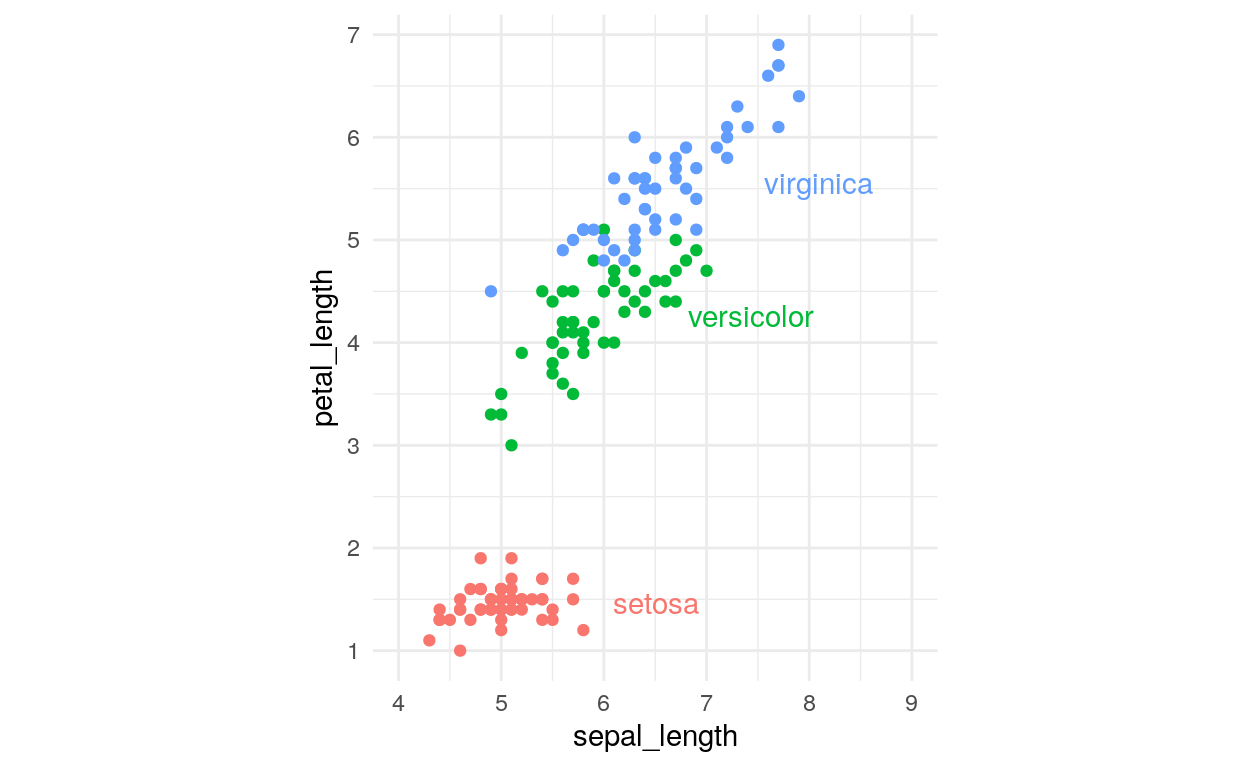
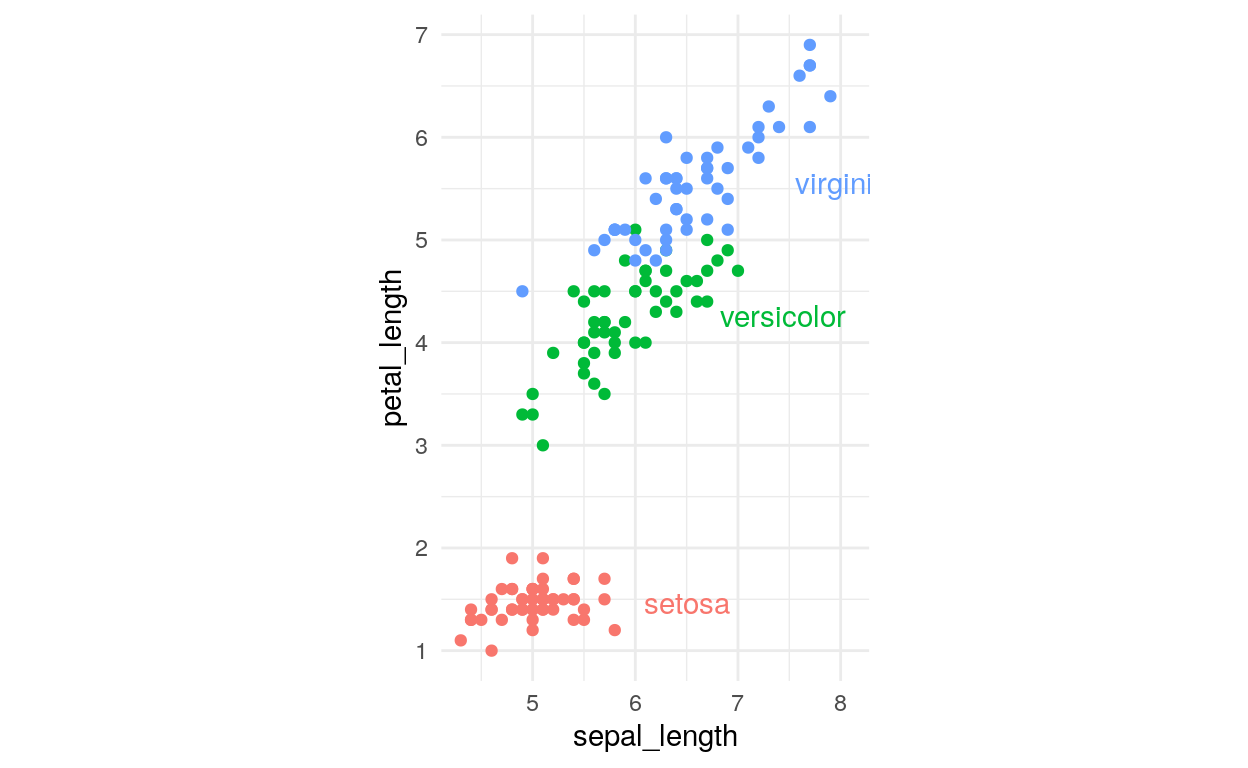
remove code duplication

diff --git a/docs/01strip.html b/docs/01strip.html
@@ -1304,7 +1304,7 @@
 
 <div class="d-article">
 <h1 id="data">Data</h1>
-<p>Just renaming, to fit my personal preferences.</p>
+<p>Just renaming variables, to fit my personal preferences.</p>
 <div class="layout-chunk" data-layout="l-body">
 <pre class="r"><code>
 data(iris)
@@ -1321,41 +1321,39 @@ ggplot(iris, aes(sepal_length, petal_length)) + geom_point()</code></pre>
 <p>Clearly we should code the species.</p>
 <div class="layout-chunk" data-layout="l-body">
 <pre class="r"><code>
-ggplot(iris, aes(sepal_length, petal_length, color = species)) +
+p &lt;- ggplot(iris, aes(sepal_length, petal_length, color = species)) +
   geom_point() +
-  NULL</code></pre>
+  NULL
+plot(p)</code></pre>
 <p><img src="01strip_files/figure-html5/unnamed-chunk-3-1.png" width="624" /></p>
 </div>
 <p>I just cannot stand the standard grey backround.</p>
 <div class="layout-chunk" data-layout="l-body">
 <pre class="r"><code>
-ggplot(iris, aes(sepal_length, petal_length, color = species)) +
-  geom_point() +
+p &lt;- p +
   theme_minimal() +
-  NULL</code></pre>
+  NULL
+plot(p)</code></pre>
 <p><img src="01strip_files/figure-html5/unnamed-chunk-4-1.png" width="624" /></p>
 </div>
 <p>Both axes are on the same scale, we could reflect that.</p>
 <div class="layout-chunk" data-layout="l-body">
 <pre class="r"><code>
-ggplot(iris, aes(sepal_length, petal_length, color = species)) +
-  geom_point() +
-  theme_minimal() +
+p &lt;- p + 
   coord_fixed() +
-  NULL</code></pre>
+  NULL
+plot(p)</code></pre>
 <p><img src="01strip_files/figure-html5/unnamed-chunk-5-1.png" width="624" /></p>
 </div>
 <p>The breaks are not symetrical.</p>
 <div class="layout-chunk" data-layout="l-body">
 <pre class="r"><code>
 round_breaks &lt;- function(lim)ceiling(seq(lim[[1]], lim[[2]], by = 1))
-ggplot(iris, aes(sepal_length, petal_length, color = species)) +
-  geom_point() +
-  theme_minimal() +
-  coord_fixed() +
+p &lt;- p +
   scale_x_continuous(breaks = round_breaks) +
   scale_y_continuous(breaks = round_breaks) +
-  NULL</code></pre>
+  NULL
+plot(p)</code></pre>
 <p><img src="01strip_files/figure-html5/unnamed-chunk-6-1.png" width="624" /></p>
 </div>
 <p>The legend does need a lot of space.</p>
@@ -1366,12 +1364,7 @@ iris_cluster &lt;- iris %&gt;%
   summarise(sepal_length = mean(sepal_length),
             petal_length = mean(petal_length))
 
-ggplot(iris, aes(sepal_length, petal_length, color = species)) +
-  geom_point() +
-  theme_minimal() +
-  coord_fixed() +
-  scale_x_continuous(breaks = round_breaks, limits = c(4, 9)) +
-  scale_y_continuous(breaks = round_breaks) +
+p &lt;- p + 
   geom_text(data = iris_cluster,
             mapping = aes(sepal_length,
                           petal_length,
@@ -1380,81 +1373,43 @@ ggplot(iris, aes(sepal_length, petal_length, color = species)) +
             nudge_x = 1.5,
             inherit.aes = FALSE) +
   theme(legend.position = &quot;none&quot;) +
-  NULL</code></pre>
+  NULL
+plot(p)</code></pre>
 <p><img src="01strip_files/figure-html5/unnamed-chunk-7-1.png" width="624" /></p>
 </div>
 <p>Adding a marginal distribution comes essentially for free.</p>
 <div class="layout-chunk" data-layout="l-body">
 <pre class="r"><code>
-ggplot(iris, aes(sepal_length, petal_length, color = species)) +
-  geom_point() +
-  theme_minimal() +
-  coord_fixed() +
-  scale_x_continuous(breaks = round_breaks, limits = c(4, 9)) +
-  scale_y_continuous(breaks = round_breaks) +
-  geom_text(data = iris_cluster,
-            mapping = aes(sepal_length,
-                          petal_length,
-                          label = species,
-                          color = species),
-            nudge_x = 1.5,
-            inherit.aes = FALSE) +
-  theme(legend.position = &quot;none&quot;) +
-  xlab(&quot;Sepal lenght (cm)&quot;) + 
-  ylab(&quot;Petal lenght (cm)&quot;) + 
+p &lt;- p +
   geom_jitter(aes(x = 4, y = petal_length), width = 0, shape = 96, size = 4, alpha = .5) +
   geom_jitter(aes(x = sepal_length, y = 0), height = 0, shape = 96, size = 4, alpha = .5) +
-  NULL</code></pre>
+  NULL
+plot(p)</code></pre>
 <p><img src="01strip_files/figure-html5/unnamed-chunk-8-1.png" width="624" /></p>
 </div>
 <p>We gain a lot of space by flipping the plot.</p>
 <div class="layout-chunk" data-layout="l-body">
 <pre class="r"><code>
-ggplot(iris, aes(sepal_length, petal_length, color = species)) +
-  geom_point() +
-  theme_minimal() +
-  coord_fixed() +
-  scale_x_continuous(breaks = round_breaks, limits = c(4, 9)) +
-  scale_y_continuous(breaks = round_breaks) +
-  geom_text(data = iris_cluster,
-            mapping = aes(sepal_length,
-                          petal_length,
-                          label = species,
-                          color = species),
-            nudge_x = 1.5,
-            inherit.aes = FALSE) +
-  theme(legend.position = &quot;none&quot;) +
-  xlab(&quot;Sepal lenght (cm)&quot;) + 
-  ylab(&quot;Petal lenght (cm)&quot;) + 
-  geom_jitter(aes(x = 4, y = petal_length), width = 0, shape = 96, size = 4, alpha = .5) +
-  geom_jitter(aes(x = sepal_length, y = 0), height = 0, shape = 96, size = 4, alpha = .5) +
+p &lt;- p +
   coord_flip() +
-  NULL</code></pre>
+  NULL
+plot(p)</code></pre>
 <p><img src="01strip_files/figure-html5/unnamed-chunk-9-1.png" width="624" /></p>
+</div>
+<p>Ok, proper labels are neccesary.</p>
+<div class="layout-chunk" data-layout="l-body">
+<pre class="r"><code>
+p &lt;- p +
+  xlab(&quot;Sepal lenght (cm)&quot;) + 
+  ylab(&quot;Petal lenght (cm)&quot;) +
+  NULL
+plot(p)</code></pre>
+<p><img src="01strip_files/figure-html5/unnamed-chunk-10-1.png" width="624" /></p>
 </div>
 <p>Personally I all ready like this graph but one may replace the backround grid by axis ticks.</p>
 <div class="layout-chunk" data-layout="l-body">
 <pre class="r"><code>
-ggplot(iris, aes(sepal_length, petal_length, color = species)) +
-  geom_point() +
-  theme_minimal() +
-  coord_fixed() +
-  scale_x_continuous(breaks = round_breaks, limits = c(4, 9)) +
-  scale_y_continuous(breaks = round_breaks) +
-  geom_text(data = iris_cluster,
-            mapping = aes(sepal_length,
-                          petal_length,
-                          label = species,
-                          color = species),
-            nudge_x = 1.5,
-            inherit.aes = FALSE) +
-  theme(legend.position = &quot;none&quot;) +
-  xlab(&quot;Sepal lenght (cm)&quot;) + 
-  ylab(&quot;Petal lenght (cm)&quot;) + 
-  geom_jitter(aes(x = 4, y = petal_length), width = 0, shape = 96, size = 4, alpha = .5) +
-  geom_jitter(aes(x = sepal_length, y = 0),
-              height = 0, shape = 96, size = 4, alpha = .5) +
-  coord_flip() +
+p &lt;- p + 
   theme_void() +
   theme(axis.ticks = element_line(),
         axis.ticks.length = unit(0.05, &quot;cm&quot;), 
@@ -1465,46 +1420,20 @@ ggplot(iris, aes(sepal_length, petal_length, color = species)) +
         axis.title = element_text(),
         axis.title.y = element_text(angle = 90, margin = margin(r = 5)),
         axis.title.x = element_text(angle = 0, margin = margin(t = 5)),) + 
-  NULL</code></pre>
-<p><img src="01strip_files/figure-html5/unnamed-chunk-10-1.png" width="624" /></p>
+  NULL
+plot(p)</code></pre>
+<p><img src="01strip_files/figure-html5/unnamed-chunk-11-1.png" width="624" /></p>
 </div>
 <p>Now we can mute the colours a bit.</p>
 <div class="layout-chunk" data-layout="l-body">
 <pre class="r"><code>
-ggplot(iris, aes(sepal_length, petal_length, color = species)) +
-  geom_point() +
-  theme_minimal() +
-  coord_fixed() +
-  scale_x_continuous(breaks = round_breaks, limits = c(4, 9)) +
-  scale_y_continuous(breaks = round_breaks) +
-  geom_text(data = iris_cluster,
-            mapping = aes(sepal_length,
-                          petal_length,
-                          label = species,
-                          color = species),
-            nudge_x = 1.5,
-            inherit.aes = FALSE) +
-  theme(legend.position = &quot;none&quot;) +
-  xlab(&quot;Sepal lenght (cm)&quot;) + 
-  ylab(&quot;Petal lenght (cm)&quot;) + 
-  geom_jitter(aes(x = 4, y = petal_length), width = 0, shape = 96, size = 4, alpha = .5) +
-  geom_jitter(aes(x = sepal_length, y = 0),
-              height = 0, shape = 96, size = 4, alpha = .5) +
-  coord_flip() +
-  theme_void() +
+p &lt;- p +
   theme(axis.ticks = element_line(colour = &quot;#E0C89D&quot;),
-        axis.ticks.length = unit(0.05, &quot;cm&quot;), 
-        axis.text = element_text(size = rel(0.8)),
-        legend.position = &quot;none&quot;,
-        axis.text.x = element_text(margin = margin(t = 5), vjust = 0),
-        axis.text.y = element_text(margin = margin(r = 5), hjust = 0),
-        axis.title = element_text(),
-        axis.title.y = element_text(angle = 90, margin = margin(r = 5)),
-        axis.title.x = element_text(angle = 0, margin = margin(t = 5)),
         text = element_text(colour = &quot;#E0C89D&quot;)) + 
   scale_color_manual(values = c(&quot;#F5BB5C&quot;, &quot;#D96725&quot;, &quot;#731702&quot;)) +
-  NULL</code></pre>
-<p><img src="01strip_files/figure-html5/unnamed-chunk-11-1.png" width="624" /></p>
+  NULL
+plot(p)</code></pre>
+<p><img src="01strip_files/figure-html5/unnamed-chunk-12-1.png" width="624" /></p>
 </div>
 <!--radix_placeholder_article_footer-->
 <!--/radix_placeholder_article_footer-->
